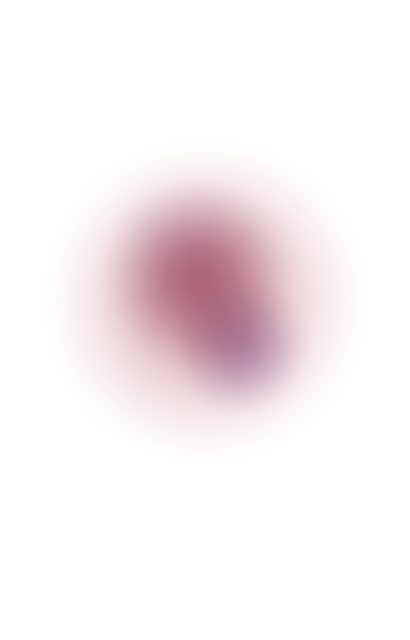
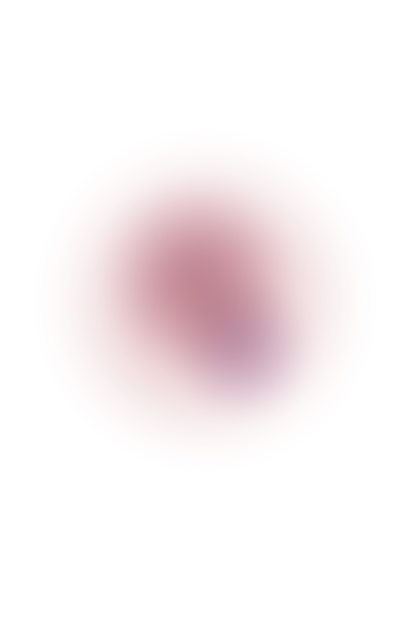
feat(art): 肌は背中を描かせ、その中の平らな窓を数値で選んで切り出す
「肌だけ」と頼むと砂丘や胴体が出る。「前腕」と部位を言うと、背景の上に腕が1本立った
絵になり輪郭が出る——輪郭が出た時点で、その上へ載る傷の層を身体ごとに位置合わせする
ことになる。背中は目に見える部品が少なく、広い平らな面が取れる。

絵の全体には背骨・肩・背景が入るので、そのままでは地にならない。どこを切るかは目で
選ばず、flat_window.py に2つの数字で選ばせる（肌でない画素の割合と、明るさの起伏）。
生成9枚のうち61006が2.13で最小、次点は61007の3.98。採った窓はレシピに書いたので、
build.py が同じ絵を作り直せる。

地が平らで暗くなったぶん、痣の濃さを落とした。

Changed region(s): [[0.3805, 0.3438, 0.6146, 0.5625]]

diff --git a/tools/comfyui/flat_window.py b/tools/comfyui/flat_window.py
@@ -1,0 +1,87 @@
+"""生成した絵から、カードの比率で「最も平らな窓」を探す（怪我のカードの地に使う肌・毛皮のため）。
+
+身体の絵は部位を描かせない（docs/ui/CardView.md 7 節）。ところが「肌だけ」と頼むと砂丘や胴体が
+出るので、**背中のような目に見える部品の少ない場所を描かせ、その中の平らな所を切り出す**。どこを
+切るかは目で選ばず、2つの数字で決める——肌でない画素の割合（背景・髪・服が入っていないか）と、
+明るさの起伏（背骨・肩甲骨・輪郭のような構造が入っていないか）。
+
+    python flat_window.py 生成物/*.png
+
+各画像の最良の窓を score とともに出す。採る1枚を決めたら、その seed と窓をレシピの
+`seed` / `cardArt.crop` に書く（build.py が同じ絵を作り直せる）。
+
+PIL と numpy が要る。
+"""
+
+from __future__ import annotations
+
+import argparse
+from pathlib import Path
+
+import numpy as np
+from PIL import Image
+
+# カードの絵の比率（objectArt.ts の CARD_ART_WIDTH と card_art.py の card サイズ）。
+CARD_RATIO = 410 / 640
+
+# 試す窓の幅（元画像の幅に対する割合）。小さいほど平らな場所は見つかるが、そのぶん拡大されて粗くなる。
+SCALES = (0.62, 0.72, 0.82)
+STEP = 24
+
+# 肌でない画素が全部を占めたときの罰（1割なら10）。起伏の差では取り返せない重さにする——背景が
+# 入った窓は、どれだけ平らでも地にはできない（平らな絵の起伏は2〜5程度）。
+NON_SKIN_PENALTY = 100
+
+
+def skin_mask(rgb: np.ndarray) -> np.ndarray:
+    """肌・毛皮らしい画素か。赤 > 緑 > 青で、赤と青の差がはっきりある画素だけを採る。"""
+    r, g, b = rgb[:, :, 0], rgb[:, :, 1], rgb[:, :, 2]
+    return (r > g) & (g > b) & (r - b > 25) & (r > 80)
+
+
+def roughness(gray: np.ndarray) -> np.ndarray:
+    """各画素の起伏（隣との明るさの差）。構造のある場所ほど大きい。"""
+    dy = np.abs(np.diff(gray, axis=0, prepend=gray[:1]))
+    dx = np.abs(np.diff(gray, axis=1, prepend=gray[:, :1]))
+    return dx + dy
+
+
+def best_window(image: Image.Image) -> tuple[float, int, int, int, int]:
+    rgb = np.asarray(image.convert("RGB"), dtype=np.float64)
+    skin, rough = skin_mask(rgb), roughness(rgb.mean(axis=2))
+
+    best: tuple[float, int, int, int, int] | None = None
+    for scale in SCALES:
+        width = int(image.width * scale)
+        height = int(width / CARD_RATIO)
+        if height > image.height:
+            continue
+        for top in range(0, image.height - height + 1, STEP):
+            for left in range(0, image.width - width + 1, STEP):
+                window = (slice(top, top + height), slice(left, left + width))
+                score = (1 - skin[window].mean()) * NON_SKIN_PENALTY + rough[window].mean()
+                if best is None or score < best[0]:
+                    best = (score, left, top, width, height)
+    if best is None:
+        raise SystemExit("カードの比率で収まる窓がありません（絵が横長すぎます）")
+    return best
+
+
+def main() -> None:
+    parser = argparse.ArgumentParser(description=__doc__)
+    parser.add_argument("images", nargs="+", help="生成物のPNG")
+    parser.add_argument("--out", help="最良の窓を切り出して書き出すディレクトリ")
+    args = parser.parse_args()
+
+    for path in (Path(p) for p in args.images):
+        image = Image.open(path)
+        score, left, top, width, height = best_window(image)
+        print(f"{path.name}  score={score:6.2f}  crop: [{left}, {top}, {width}, {height}]")
+        if args.out:
+            out = Path(args.out) / f"crop_{path.stem}.png"
+            out.parent.mkdir(parents=True, exist_ok=True)
+            image.crop((left, top, left + width, top + height)).save(out)
+
+
+if __name__ == "__main__":
+    main()

diff --git a/tools/comfyui/README.md b/tools/comfyui/README.md
@@ -240,6 +240,17 @@ Qwen へ渡してください。
 `<識別子>_multiply.png` として実行時に乗算で重ねます（[docs/ui/CardView.md](../../docs/ui/CardView.md)
 5 節）。**白い画素は作りません**——「変わらない」は透明で表します。
 
+### 身体の絵（怪我のカードの地）
+
+**部位を描かせず、部位の少ない場所を描かせて切り出します。** 「肌だけ」と頼むと砂丘や胴体が出て、
+「前腕」と部位を言うと背景の上に腕が1本立った絵になります（輪郭が出ると、その上へ載る傷の層を
+身体ごとに位置合わせすることになります）。**背中**のように目に見える部品が少ない場所を描かせると、
+広い平らな面が取れます。
+
+絵の全体には背骨・肩・背景が入るので、そのままでは地になりません。**どこを切るかは目で選ばず、
+`flat_window.py` に2つの数字で選ばせます**——肌でない画素の割合と、明るさの起伏。採った seed と窓は
+レシピの `seed` / `cardArt.crop` に書きます。
+
 **`--canvas` は必須です。** `fit_object` が空ける余白は物の形で変わるので、そのままだと平たい物ほど
 小さく見えてしまいます（開いた地図が巻いた包帯より小さく見えました）。いったん透明な余白を
 切り落としてから、共通のキャンバスの中央へ置き直します。
@@ -342,6 +353,7 @@ custom_nodes/unmapped_island_seamless  →  <インストール先>\ComfyUI\cust
 | `page_art.py` | 本の絵から片ページを切り出し、9patchの素材にする |
 | `icon_mark.py` | アイコンへ絵文字の形を色替えして重ねる（血の印など） |
 | `skin_tint.py` | 染みを、絵に焼く（陰影を残したまま色を寄せる）か、乗算で載る層として描く（痣など） |
+| `flat_window.py` | 生成物から、カードの比率で最も平らな窓を探す（怪我のカードの地に使う肌・毛皮） |
 | `sky_art.py` | 雲の無い空の下地を計算で描く（縦のグラデーション＋光の滲み） |
 | `custom_nodes/unmapped_island_seamless/` | 左右が繋がった絵を生成するための ComfyUI ノード |
 | `workflows/lane_background_sdxl.api.json` | API 形式のワークフロー（`$名前` がプレースホルダ）。既定 |
